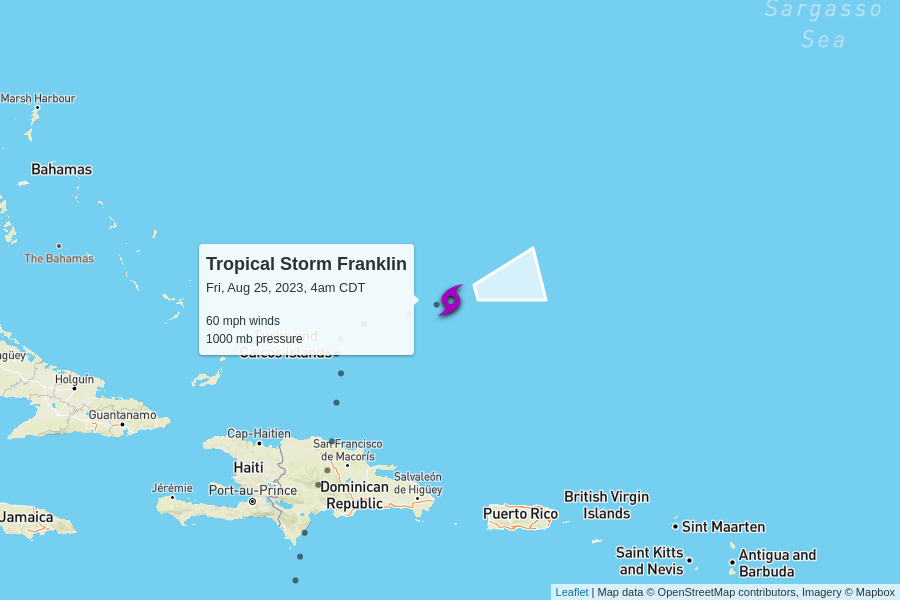
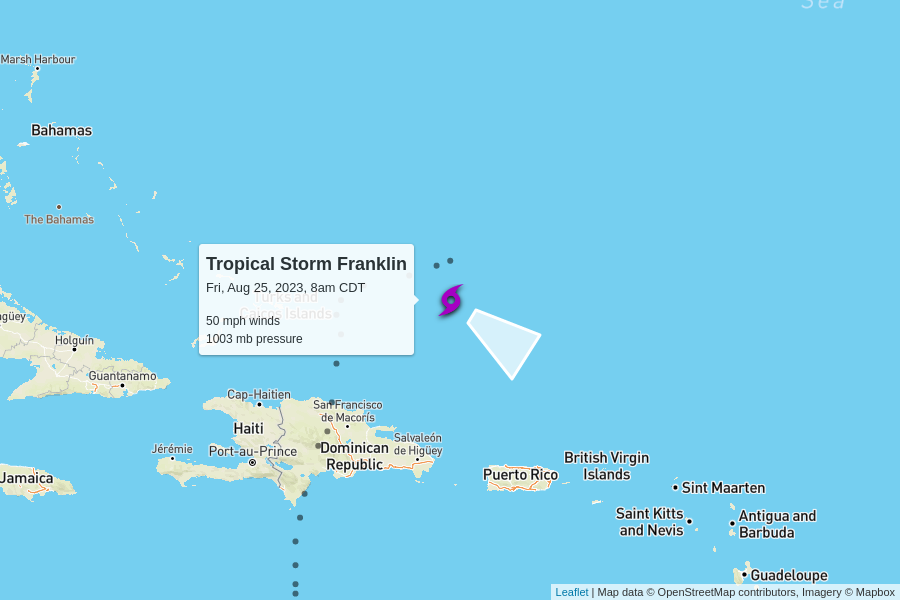
automatic update

diff --git a/docs/index.html b/docs/index.html
@@ -100,7 +100,7 @@
         <td colspan="6" class="storm category-0" >
           <h2>
             Tropical Storm Franklin
-            <p class="updated">last updated <span data-time>2023-08-25T09:00:00.000Z</span></p>
+            <p class="updated">last updated <span data-time>2023-08-25T13:10:00.000Z</span></p>
           </h2>
         </td>
       </tr>
@@ -115,12 +115,12 @@
       </tr>
       <tr>
         <td class="spacer"></td>
-        <td>60 mph</td>
-        <td>1000 mb</td>
+        <td>50 mph</td>
+        <td>1003 mb</td>
         <td>
-          6 mph to the east-northeast
+          6 mph to the southeast
           <br/>
-          <span style="display: inline-block; font-size: 1.5em; transform: rotate(75deg);">↑</span>
+          <span style="display: inline-block; font-size: 1.5em; transform: rotate(125deg);">↑</span>
         </td>
         <td><a href="https://raw.githubusercontent.com/mgwalker/atlantic-hurricanes/main/data/csv/AL082023.csv">AL082023.csv</a></td>
         <td><a href="https://www.nhc.noaa.gov/archive/2023/FRANKLIN.shtml?">NHC advisories</a></td>
